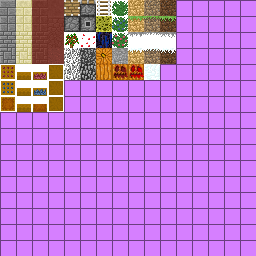
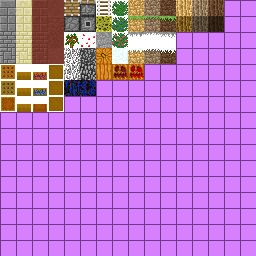
add top/bottom texture for crying obsidian

diff --git a/betaexpansion/net/minecraft/src/RenderBlocks.java b/betaexpansion/net/minecraft/src/RenderBlocks.java
@@ -2476,7 +2476,7 @@ public class RenderBlocks
             	{
             		if(i1 != 68)
             		{
-            			i1 = 73;
+            			i1 = 55;
             		}else
             		{
             			i1 = 66;
@@ -2487,7 +2487,7 @@ public class RenderBlocks
                     	aoMultRGB(f, f1, f2);
             			if(i1 != 3)
             			{
-            				i1 = 55;
+            				i1 = 38;
             			}else
             			{
             				i1 = 0;
@@ -2495,7 +2495,7 @@ public class RenderBlocks
             		}
             }
             renderEastFace(block, i, j, k, i1);
-            if(block == Block.grass && (fancyGrass || cfgGrassFix) && (i1 != 55 && i1 != 0) && ((BlockGrass)block).isBlockSideGrass(blockAccess, i, j, k) && overrideBlockTexture < 0)
+            if(block == Block.grass && (fancyGrass || cfgGrassFix) && (i1 != 38 && i1 != 0) && ((BlockGrass)block).isBlockSideGrass(blockAccess, i, j, k) && overrideBlockTexture < 0)
             {
             	aoMultRGB(f, f1, f2);
                 renderEastFace(block, i, j, k, i1 == 3 ? 38 : 39 + blockAccess.getBlockMetadata(i, j, k));
@@ -2565,7 +2565,7 @@ public class RenderBlocks
             	{
             		if(j1 != 68)
             		{
-            			j1 = 73;
+            			j1 = 55;
             		}else
             		{
             			j1 = 66;
@@ -2576,7 +2576,7 @@ public class RenderBlocks
                     	aoMultRGB(f, f1, f2);
             			if(j1 != 3)
             			{
-            				j1 = 55;
+            				j1 = 38;
             			}else
             			{
             				j1 = 0;
@@ -2584,7 +2584,7 @@ public class RenderBlocks
             		}
             }
             renderWestFace(block, i, j, k, j1);
-            if(block == Block.grass && (fancyGrass || cfgGrassFix) && (j1 != 55 && j1 != 0) && ((BlockGrass)block).isBlockSideGrass(blockAccess, i, j, k) && overrideBlockTexture < 0)
+            if(block == Block.grass && (fancyGrass || cfgGrassFix) && (j1 != 38 && j1 != 0) && ((BlockGrass)block).isBlockSideGrass(blockAccess, i, j, k) && overrideBlockTexture < 0)
             {
             	aoMultRGB(f, f1, f2);
                 renderWestFace(block, i, j, k, j1 == 3 ? 38 : 39 + blockAccess.getBlockMetadata(i, j, k));
@@ -2655,7 +2655,7 @@ public class RenderBlocks
             	{
             		if(k1 != 68)
             		{
-            			k1 = 73;
+            			k1 = 55;
             		}else
             		{
             			k1 = 66;
@@ -2666,7 +2666,7 @@ public class RenderBlocks
                     	aoMultRGB(f, f1, f2);
             			if(k1 != 3)
             			{
-            				k1 = 55;
+            				k1 = 38;
             			}else
             			{
             				k1 = 0;
@@ -2674,7 +2674,7 @@ public class RenderBlocks
             		}
             }
             renderNorthFace(block, i, j, k, k1);
-            if(block == Block.grass && (fancyGrass || cfgGrassFix) && (k1 != 55 && k1 != 0) && ((BlockGrass)block).isBlockSideGrass(blockAccess, i, j, k) && overrideBlockTexture < 0)
+            if(block == Block.grass && (fancyGrass || cfgGrassFix) && (k1 != 38 && k1 != 0) && ((BlockGrass)block).isBlockSideGrass(blockAccess, i, j, k) && overrideBlockTexture < 0)
             {
             	aoMultRGB(f, f1, f2);
                 renderNorthFace(block, i, j, k, k1 == 3 ? 38 : 39 + blockAccess.getBlockMetadata(i, j, k));
@@ -2744,7 +2744,7 @@ public class RenderBlocks
             	{
             		if(l1 != 68)
             		{
-            			l1 = 73;
+            			l1 = 55;
             		}else
             		{
             			l1 = 66;
@@ -2755,7 +2755,7 @@ public class RenderBlocks
                     	aoMultRGB(f, f1, f2);
             			if(l1 != 3)
             			{
-            				l1 = 55;
+            				l1 = 38;
             			}else
             			{
             				l1 = 0;
@@ -2763,7 +2763,7 @@ public class RenderBlocks
             		}
             }
             renderSouthFace(block, i, j, k, l1);
-            if(block == Block.grass && (fancyGrass || cfgGrassFix) && (l1 != 55 && l1 != 0) && ((BlockGrass)block).isBlockSideGrass(blockAccess, i, j, k) && overrideBlockTexture < 0)
+            if(block == Block.grass && (fancyGrass || cfgGrassFix) && (l1 != 38 && l1 != 0) && ((BlockGrass)block).isBlockSideGrass(blockAccess, i, j, k) && overrideBlockTexture < 0)
             {
             	aoMultRGB(f, f1, f2);
                 renderSouthFace(block, i, j, k, l1 == 3 ? 38 : 39 + blockAccess.getBlockMetadata(i, j, k));
@@ -2913,7 +2913,7 @@ public class RenderBlocks
             	{
             		if(l != 68)
             		{
-            			l = 73;
+            			l = 55;
             		}else
             		{
             			l = 66;
@@ -2923,7 +2923,7 @@ public class RenderBlocks
             	{
         			if(l != 3)
         			{
-        				l = 55;
+        				l = 38;
         			}else
         			{
         				l = 0;
@@ -2932,7 +2932,7 @@ public class RenderBlocks
             	}
             }
             renderEastFace(block, i, j, k, l);
-            if(block == Block.grass && (fancyGrass || cfgGrassFix) && (l != 55 && l != 0) && ((BlockGrass)block).isBlockSideGrass(blockAccess, i, j, k) && overrideBlockTexture < 0)
+            if(block == Block.grass && (fancyGrass || cfgGrassFix) && (l != 38 && l != 0) && ((BlockGrass)block).isBlockSideGrass(blockAccess, i, j, k) && overrideBlockTexture < 0)
             {
                 tessellator.setColorOpaque_F(f11 * f22 * f, f14 * f22 * f1, f17 * f22 * f2);
                 renderEastFace(block, i, j, k, l == 3 ? 38 : 39 + blockAccess.getBlockMetadata(i, j, k));
@@ -2963,7 +2963,7 @@ public class RenderBlocks
             	{
             		if(i1 != 68)
             		{
-            			i1 = 73;
+            			i1 = 55;
             		}else
             		{
             			i1 = 66;
@@ -2973,7 +2973,7 @@ public class RenderBlocks
             	{
         			if(i1 != 3)
         			{
-        				i1 = 55;
+        				i1 = 38;
         			}else
         			{
         				i1 = 0;
@@ -2982,7 +2982,7 @@ public class RenderBlocks
             	}
             }
             renderWestFace(block, i, j, k, i1);
-            if(block == Block.grass && (fancyGrass || cfgGrassFix) && (i1 != 55 && i1 != 0) && ((BlockGrass)block).isBlockSideGrass(blockAccess, i, j, k) && overrideBlockTexture < 0)
+            if(block == Block.grass && (fancyGrass || cfgGrassFix) && (i1 != 38 && i1 != 0) && ((BlockGrass)block).isBlockSideGrass(blockAccess, i, j, k) && overrideBlockTexture < 0)
             {
                 tessellator.setColorOpaque_F(f11 * f23 * f, f14 * f23 * f1, f17 * f23 * f2);
                 renderWestFace(block, i, j, k, i1 == 3 ? 38 : 39 + blockAccess.getBlockMetadata(i, j, k));
@@ -3013,7 +3013,7 @@ public class RenderBlocks
             	{
             		if(j1 != 68)
             		{
-            			j1 = 73;
+            			j1 = 55;
             		}else
             		{
             			j1 = 66;
@@ -3023,7 +3023,7 @@ public class RenderBlocks
             	{
         			if(j1 != 3)
         			{
-        				j1 = 55;
+        				j1 = 38;
         			}else
         			{
         				j1 = 0;
@@ -3032,7 +3032,7 @@ public class RenderBlocks
             	}
             }
             renderNorthFace(block, i, j, k, j1);
-            if(block == Block.grass && (fancyGrass || cfgGrassFix) && (j1 != 55 && j1 != 0) && ((BlockGrass)block).isBlockSideGrass(blockAccess, i, j, k) && overrideBlockTexture < 0)
+            if(block == Block.grass && (fancyGrass || cfgGrassFix) && (j1 != 38 && j1 != 0) && ((BlockGrass)block).isBlockSideGrass(blockAccess, i, j, k) && overrideBlockTexture < 0)
             {
                 tessellator.setColorOpaque_F(f12 * f24 * f, f15 * f24 * f1, f18 * f24 * f2);
                 renderNorthFace(block, i, j, k, j1 == 3 ? 38 : 39 + blockAccess.getBlockMetadata(i, j, k));
@@ -3063,7 +3063,7 @@ public class RenderBlocks
             	{
             		if(k1 != 68)
             		{
-            			k1 = 73;
+            			k1 = 55;
             		}else
             		{
             			k1 = 66;
@@ -3073,7 +3073,7 @@ public class RenderBlocks
             	{
         			if(k1 != 3)
         			{
-        				k1 = 55;
+        				k1 = 38;
         			}else
         			{
         				k1 = 0;
@@ -3082,7 +3082,7 @@ public class RenderBlocks
             	}
             }
             renderSouthFace(block, i, j, k, k1);
-            if(block == Block.grass && (fancyGrass || cfgGrassFix) && (k1 != 55 && k1 != 0) && ((BlockGrass)block).isBlockSideGrass(blockAccess, i, j, k) && overrideBlockTexture < 0)
+            if(block == Block.grass && (fancyGrass || cfgGrassFix) && (k1 != 38 && k1 != 0) && ((BlockGrass)block).isBlockSideGrass(blockAccess, i, j, k) && overrideBlockTexture < 0)
             {
                 tessellator.setColorOpaque_F(f12 * f25 * f, f15 * f25 * f1, f18 * f25 * f2);
                 renderSouthFace(block, i, j, k, k1 == 3 ? 38 : 39 + blockAccess.getBlockMetadata(i, j, k));

diff --git a/betaexpansion/net/minecraft/src/BEBlocks.java b/betaexpansion/net/minecraft/src/BEBlocks.java
@@ -37,8 +37,8 @@ public class BEBlocks {
         ropeLadder = (new BlockRopeLadder(109, 6)).setHardness(0.4F).setStepSound(Block.soundWoodFootstep).setBlockName("ropeLadder").disableNeighborNotifyOnMetadataChange();
         wetSponge = (new BlockWetSponge(110, 22)).setHardness(0.6F).setStepSound(Block.soundGrassFootstep).setBlockName("wetSponge");
         stoneBrickStairs = (new BlockStairs(112, stoneBrick)).setBlockName("stoneBrickStairs").disableNeighborNotifyOnMetadataChange();
-        cryingObsidianIdle = (new BlockCryingObsidian(113, 38, false)).setHardness(10F).setResistance(2000F).setStepSound(Block.soundStoneFootstep).setBlockName("cryingObsidian");
-        cryingObsidianActive = (new BlockCryingObsidian(114, 38, true)).setHardness(10F).setResistance(2000F).setLightValue(0.8F).setStepSound(Block.soundStoneFootstep).setBlockName("cryingObsidian");
+        cryingObsidianIdle = (new BlockCryingObsidian(113, 84, false)).setHardness(10F).setResistance(2000F).setStepSound(Block.soundStoneFootstep).setBlockName("cryingObsidian");
+        cryingObsidianActive = (new BlockCryingObsidian(114, 84, true)).setHardness(10F).setResistance(2000F).setLightValue(0.8F).setStepSound(Block.soundStoneFootstep).setBlockName("cryingObsidian");
         berryBush = (new BlockBerryBush(115, 7)).setHardness(0.0F).setStepSound(Block.soundGrassFootstep).setBlockName("berryBush");
         blockPie = (new BlockPie(116, 64)).setHardness(0.5F).setStepSound(Block.soundClothFootstep).setBlockName("blockPie").disableStats().disableNeighborNotifyOnMetadataChange();
         pumpkinLampIdle = (new BlockPumpkinLamp(117, false)).setHardness(1.0F).setStepSound(Block.soundWoodFootstep).setBlockName("pumpkinLampIdle").disableNeighborNotifyOnMetadataChange();

diff --git a/betaexpansion/net/minecraft/src/BlockCryingObsidian.java b/betaexpansion/net/minecraft/src/BlockCryingObsidian.java
@@ -18,6 +18,15 @@ public class BlockCryingObsidian extends BlockStone
     	isActivated = flag;
     }
     
+    public int getBlockTextureFromSideAndMetadata(int i, int j)
+    {
+    	if(i < 2)
+    	{
+    		return blockIndexInTexture + 1;
+    	}
+    	return blockIndexInTexture;
+    }
+    
     public void onNeighborBlockChange(World world, int i, int j, int k, int l)
     {
         if(isActivated)

diff --git a/betaexpansion/net/minecraft/src/BlockGrass.java b/betaexpansion/net/minecraft/src/BlockGrass.java
@@ -37,7 +37,7 @@ public class BlockGrass extends Block
     	{
     		if(l == 1)
     		{
-    			return 55;
+    			return 38;
     		}
     		if(l == 0)
     		{
